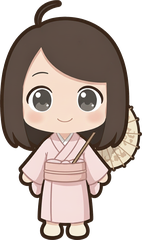
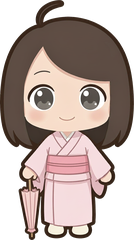
重做和服图并让现身时归位

diff --git a/popup/popup.js b/popup/popup.js
@@ -1342,7 +1342,12 @@ try {
     } else {
       // 精美模式下 0.8 秒淡入。之前"默认不出现"是为了彩蛋的意外感，
       // 但结果是工具条和彩蛋都够不着 —— 可用性优先，改成默认现身。
-      setTimeout(function () { mascot.classList.add("show"); pose("sit"); }, 800);
+      setTimeout(function () {
+        // 现身时把位置归位：上次若被拖到视口外，这里会让她回到右上角
+        mascot.style.translate = (window.innerWidth - 56) + "px 2px";
+        mascot.classList.add("show");
+        pose("sit");
+      }, 800);
     }
 
     // 通用触发：悬停「检测更新」→ 指过去 1.8 秒
